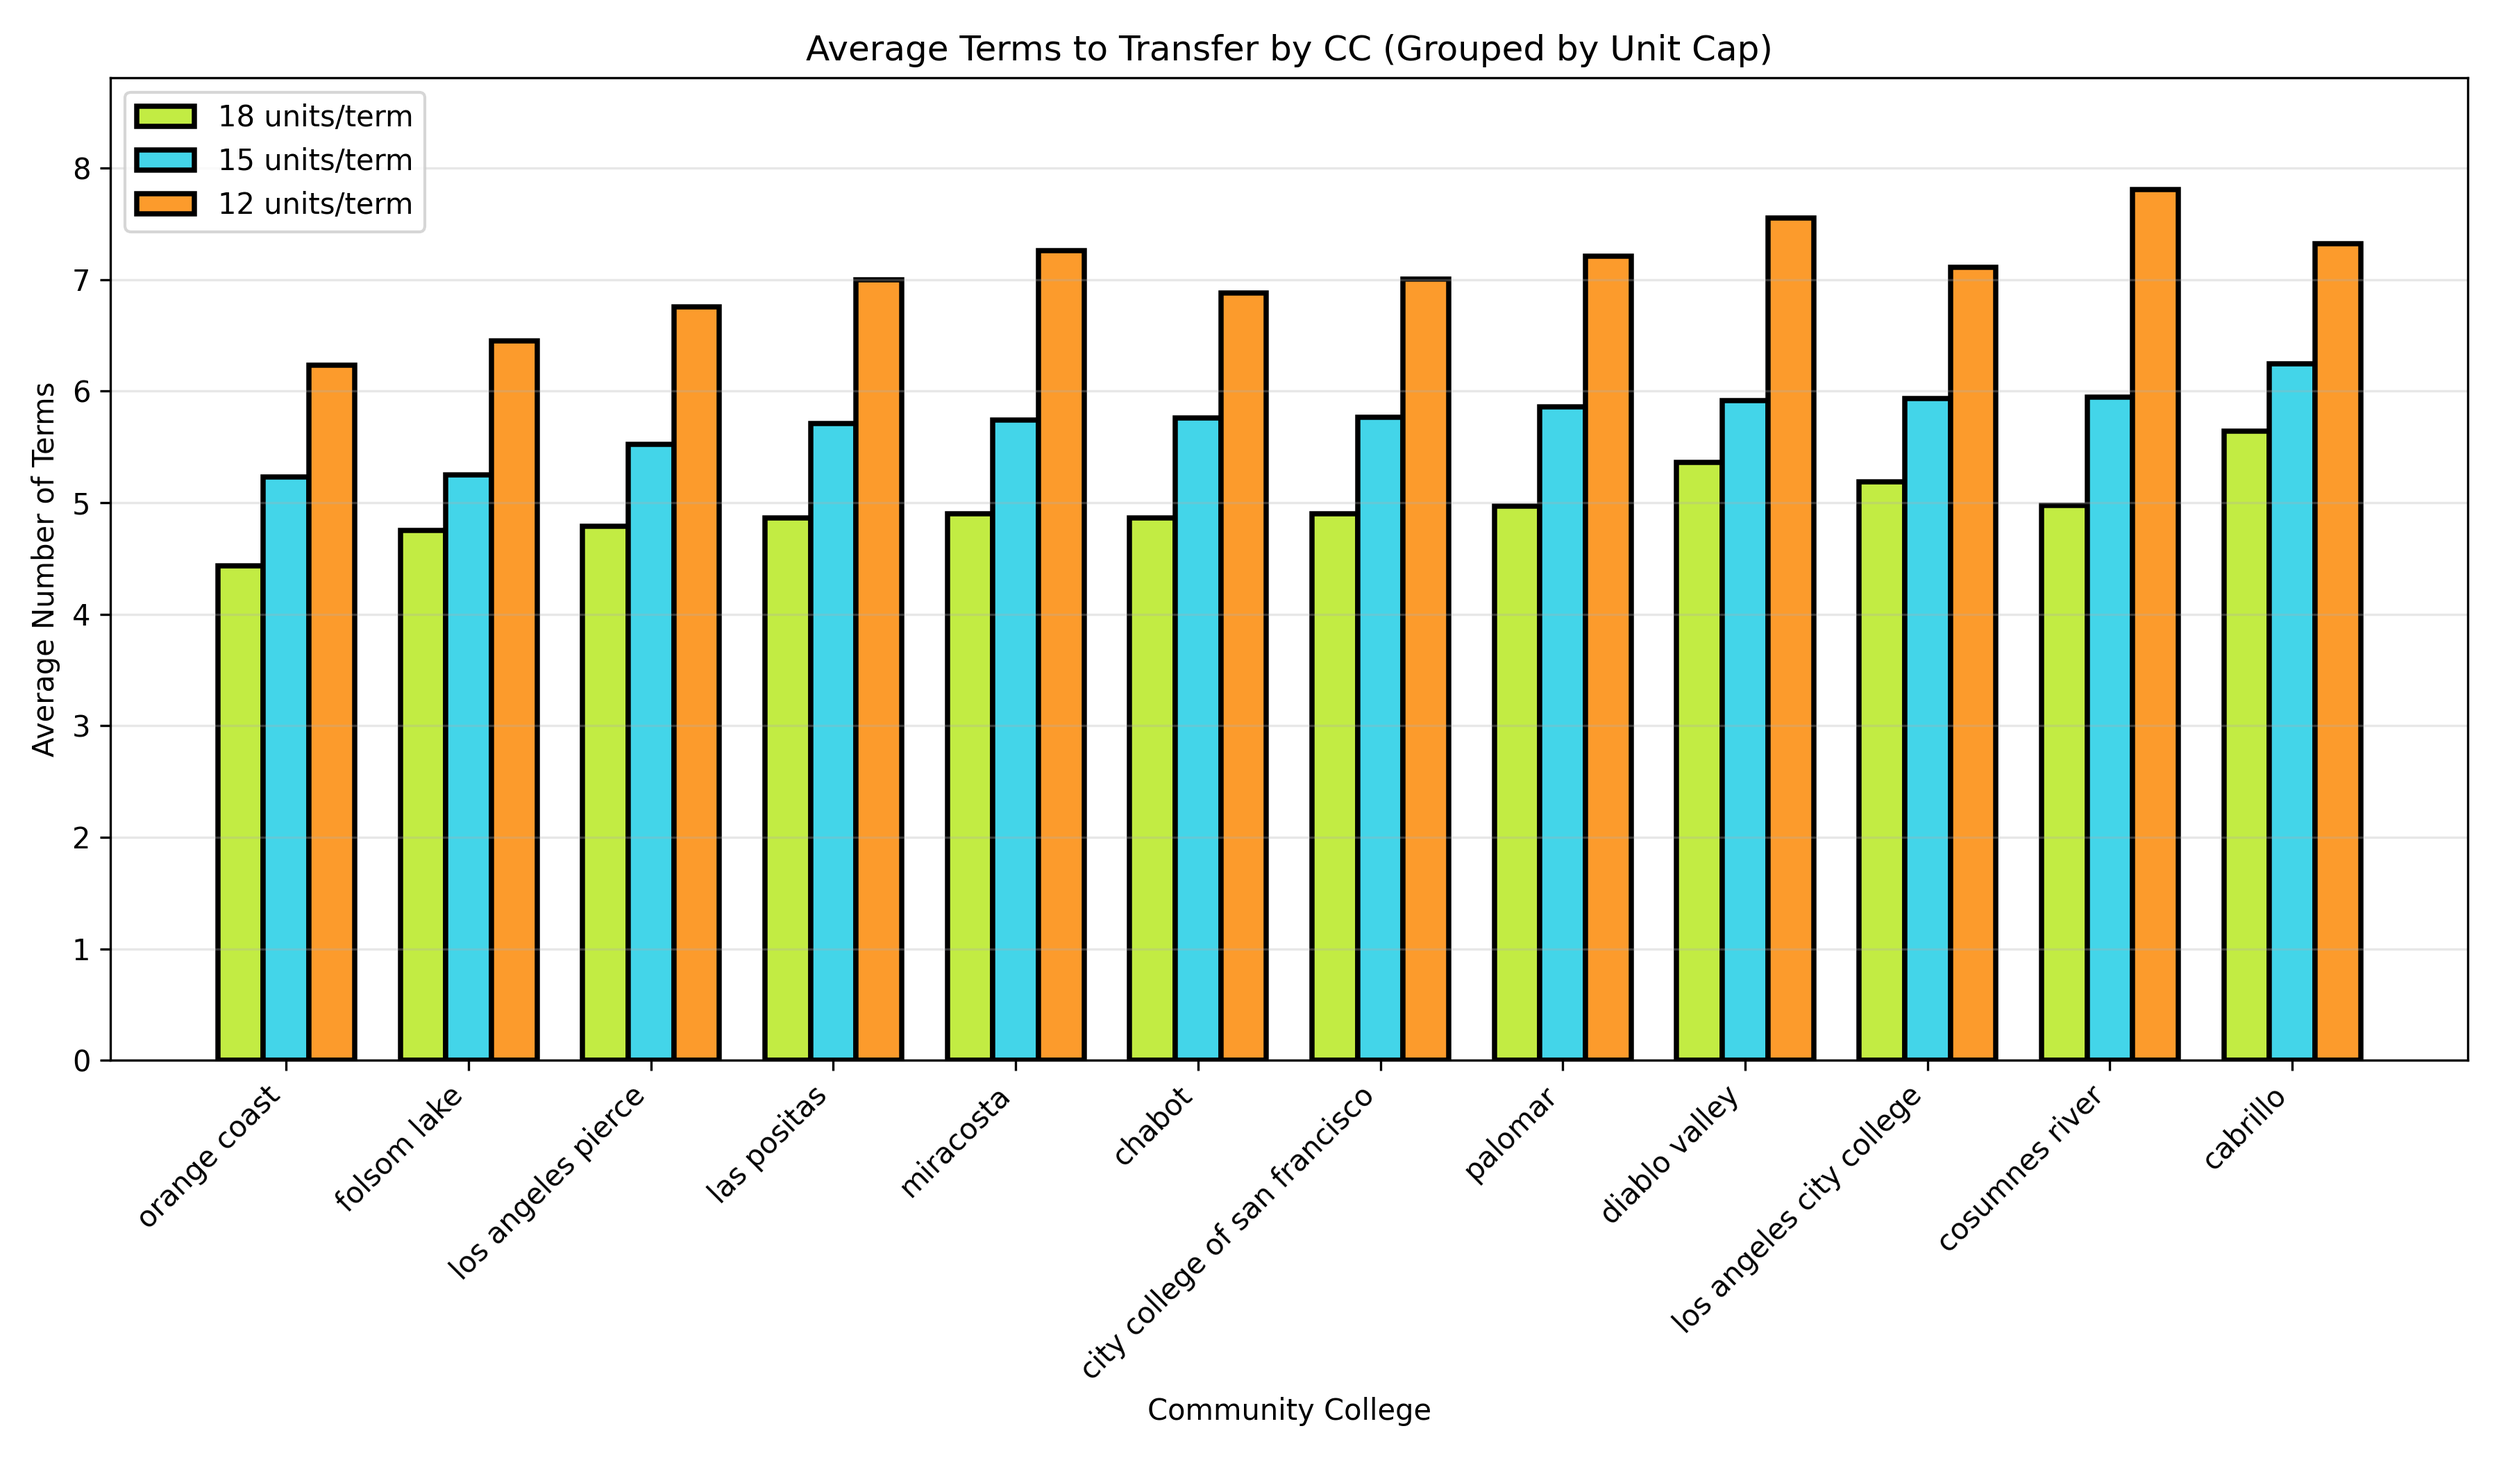
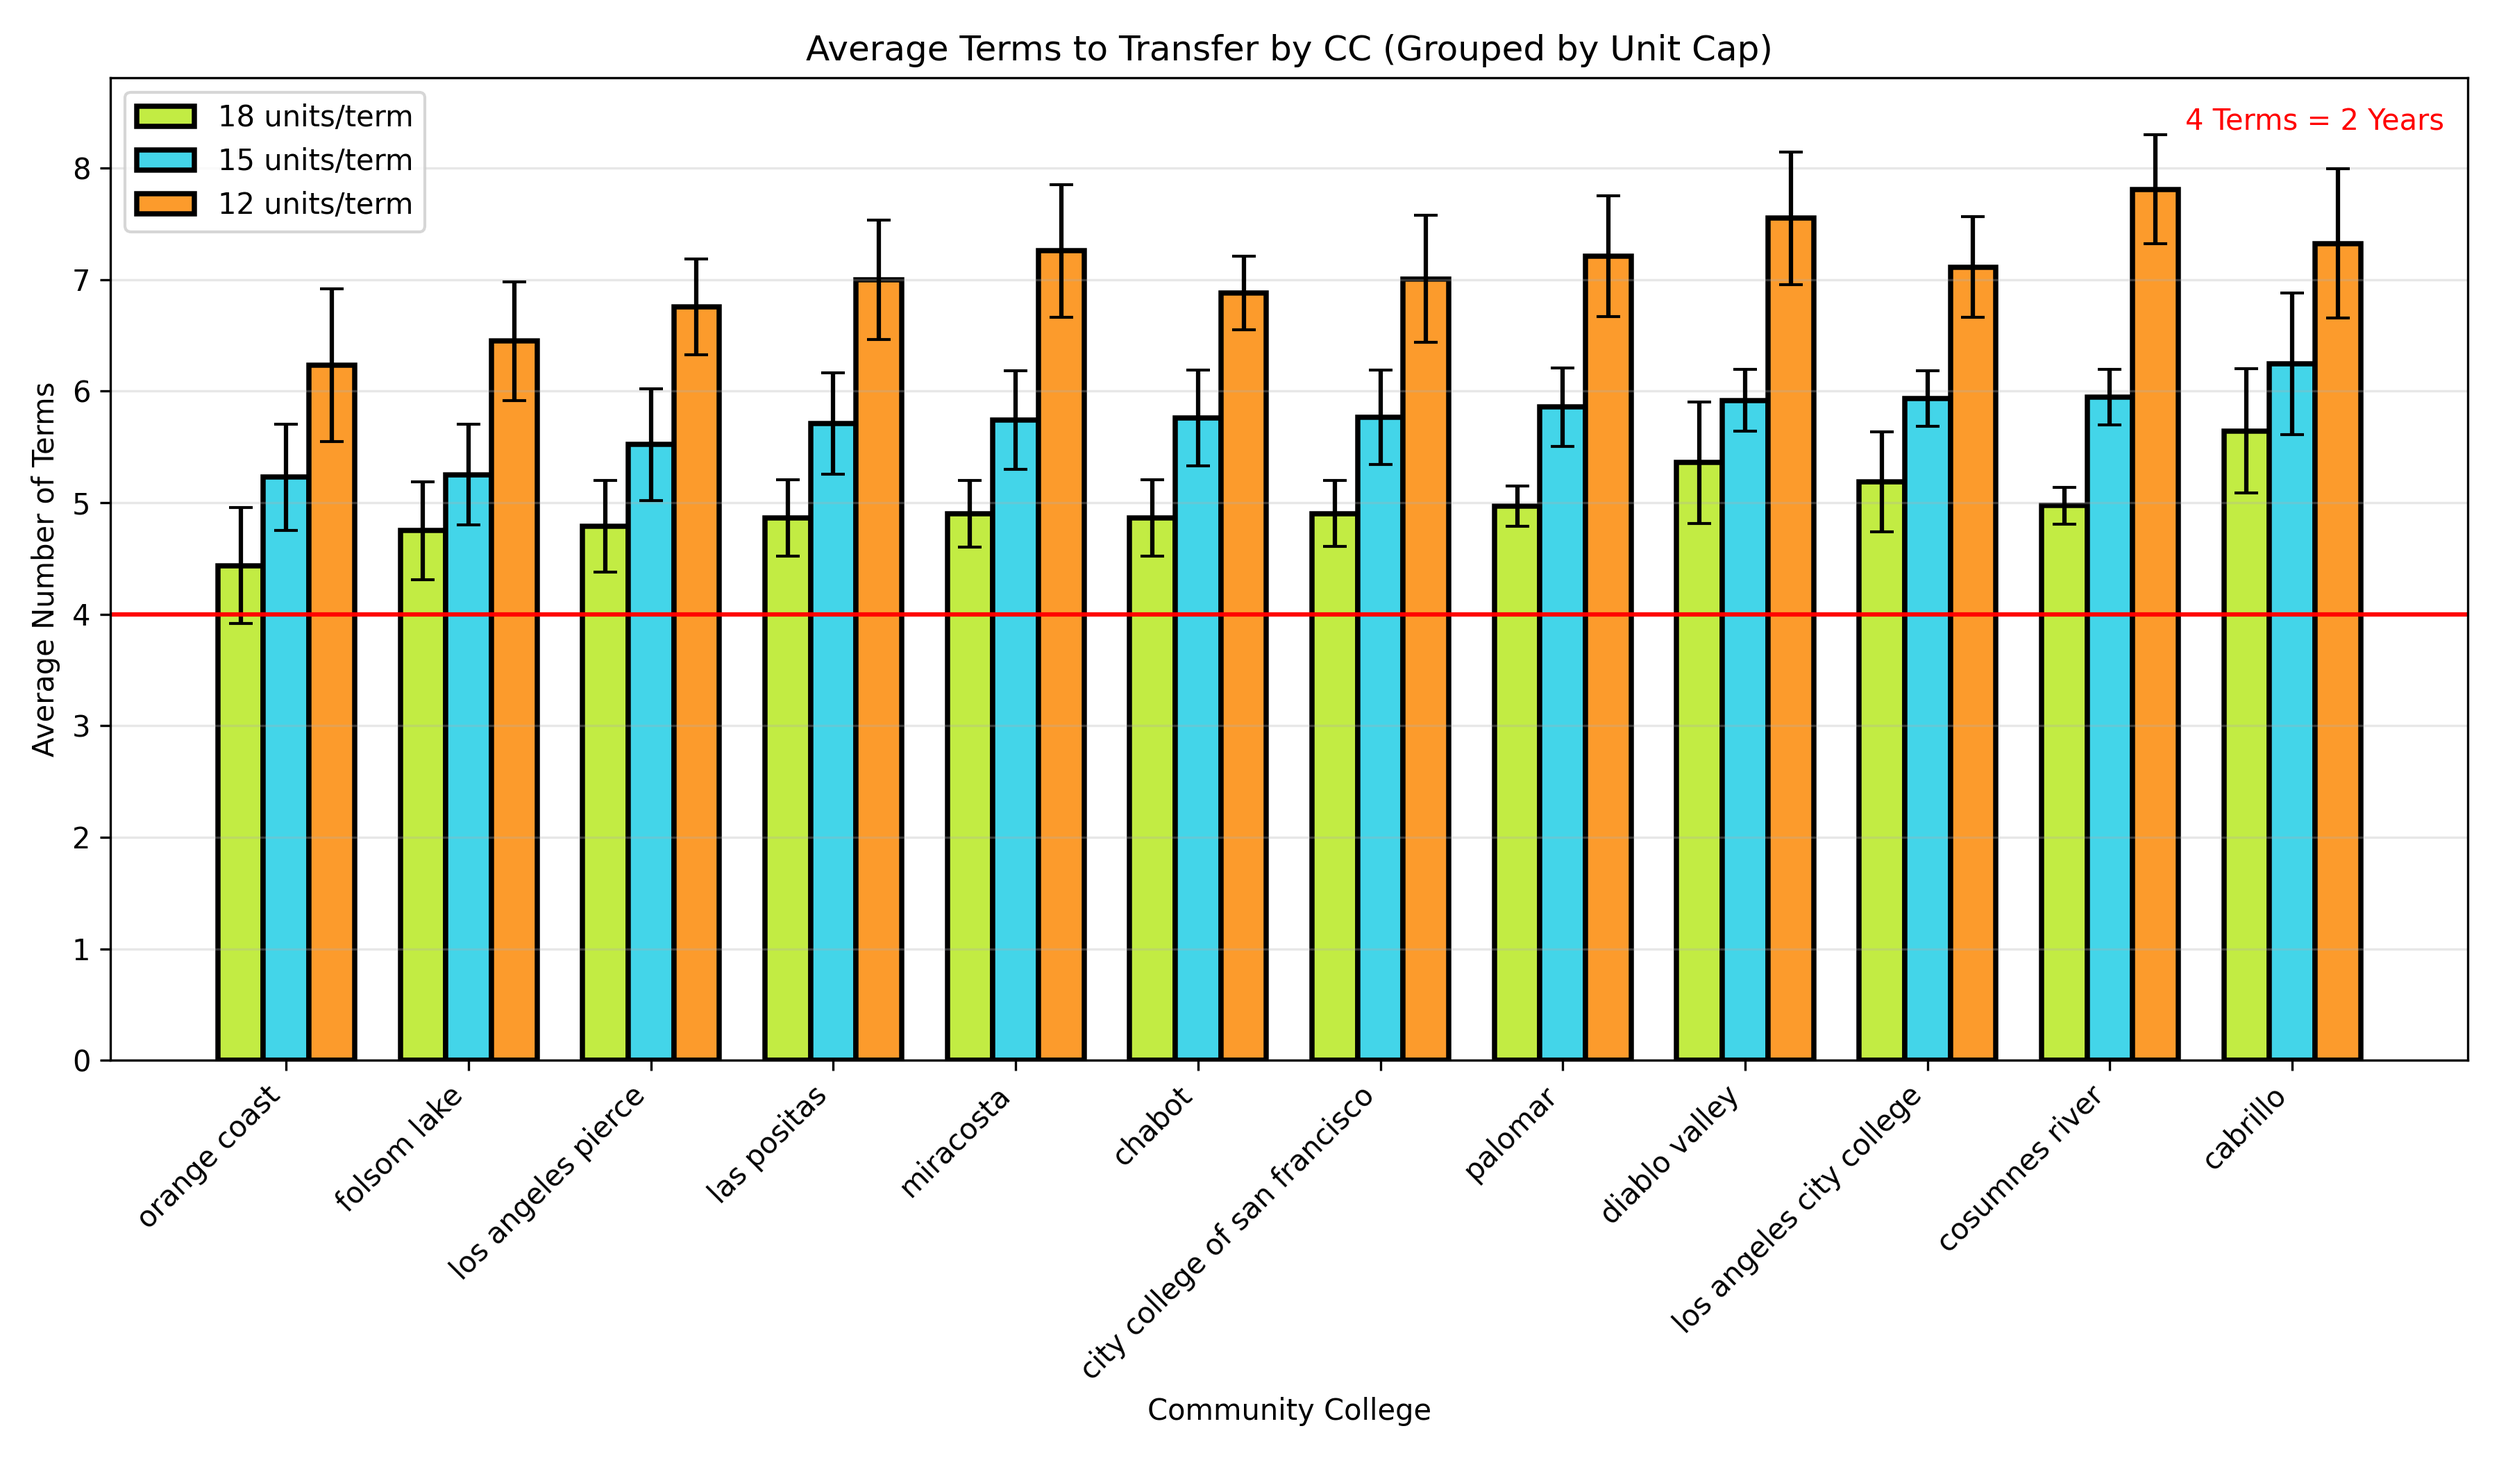
updated the cumulative visual to be even more detailed

Changed region(s): [[0.0622, 0.4024, 0.9644, 0.4333], [0.8711, 0.0619, 0.9644, 0.0929], [0.0933, 0.3405, 0.1244, 0.3714]]

diff --git a/question_4/scripts-for-figures/average_time_to_transfer_3_paths.py b/question_4/scripts-for-figures/average_time_to_transfer_3_paths.py
@@ -25,16 +25,18 @@ def load_avg_terms(json_path: str, exclude=None) -> pd.DataFrame:
     if exclude:
         df = df[~df["cc"].isin(exclude)]
 
+    # mean & std for error bars
     out = (
-        df.groupby("cc", as_index=False)["total_terms"]
-          .mean()
+        df.groupby("cc", as_index=False)
+          .agg(mean_terms=("total_terms", "mean"),
+               std_terms=("total_terms", "std"))
     )
     return out
 
 # --- load & merge ---
-df12 = load_avg_terms(json_12, exclude_ccs).rename(columns={"total_terms": "u12"})
-df15 = load_avg_terms(json_15, exclude_ccs).rename(columns={"total_terms": "u15"})
-df18 = load_avg_terms(json_18, exclude_ccs).rename(columns={"total_terms": "u18"})
+df12 = load_avg_terms(json_12, exclude_ccs).rename(columns={"mean_terms": "u12", "std_terms": "e12"})
+df15 = load_avg_terms(json_15, exclude_ccs).rename(columns={"mean_terms": "u15", "std_terms": "e15"})
+df18 = load_avg_terms(json_18, exclude_ccs).rename(columns={"mean_terms": "u18", "std_terms": "e18"})
 
 merged = df18.merge(df15, on="cc", how="outer").merge(df12, on="cc", how="outer")
 
@@ -54,10 +56,28 @@ col18 = "tab:orange"  # 18u
 col15 = "tab:blue"    # 15u
 col12 = "tab:red"     # 12u
 
-# Colors inspired by image: Teal, Red, Yellow
-bars18 = ax.bar(x - width, merged["u18"].values, width, label="18 units/term", color="#B5E81BD2", edgecolor="black",linewidth=1.8)
-bars15 = ax.bar(x,          merged["u15"].values, width, label="15 units/term", color="#43D5E9", edgecolor="black",linewidth=1.8)
-bars12 = ax.bar(x + width,  merged["u12"].values, width, label="12 units/term", color="#FC9B2C", edgecolor="black",linewidth=1.8)
+bars18 = ax.bar(
+    x - width, merged["u18"].values, width,
+    label="18 units/term", color="#B5E81BD2", edgecolor="black", linewidth=1.8,
+    yerr=merged["e18"].values, capsize=4, ecolor="black"
+)
+bars15 = ax.bar(
+    x, merged["u15"].values, width,
+    label="15 units/term", color="#43D5E9", edgecolor="black", linewidth=1.8,
+    yerr=merged["e15"].values, capsize=4, ecolor="black"
+)
+bars12 = ax.bar(
+    x + width, merged["u12"].values, width,
+    label="12 units/term", color="#FC9B2C", edgecolor="black", linewidth=1.8,
+    yerr=merged["e12"].values, capsize=4, ecolor="black"
+)
+
+# --- NEW: horizontal line at y=4 ---
+ax.axhline(y=4, color="red", linestyle="-", linewidth=1.5)
+
+# --- NEW: small advising text ---
+ax.text(0.99, 0.97, "4 Terms = 2 Years", transform=ax.transAxes,
+        ha="right", va="top", fontsize=10, color="red")
 
 ax.set_ylabel("Average Number of Terms")
 ax.set_xlabel("Community College")
